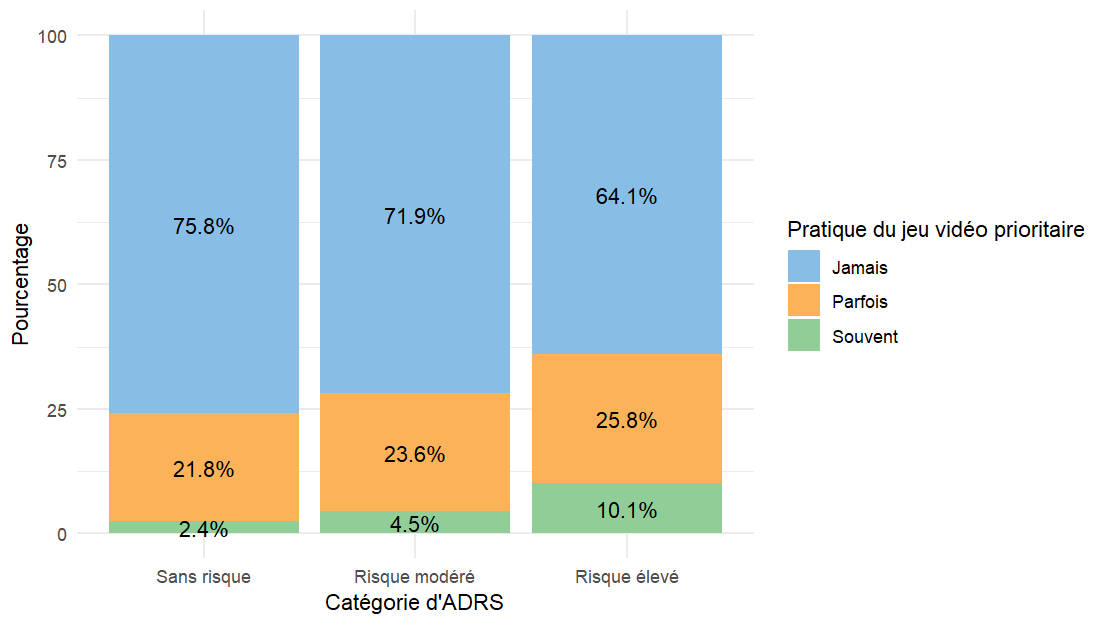
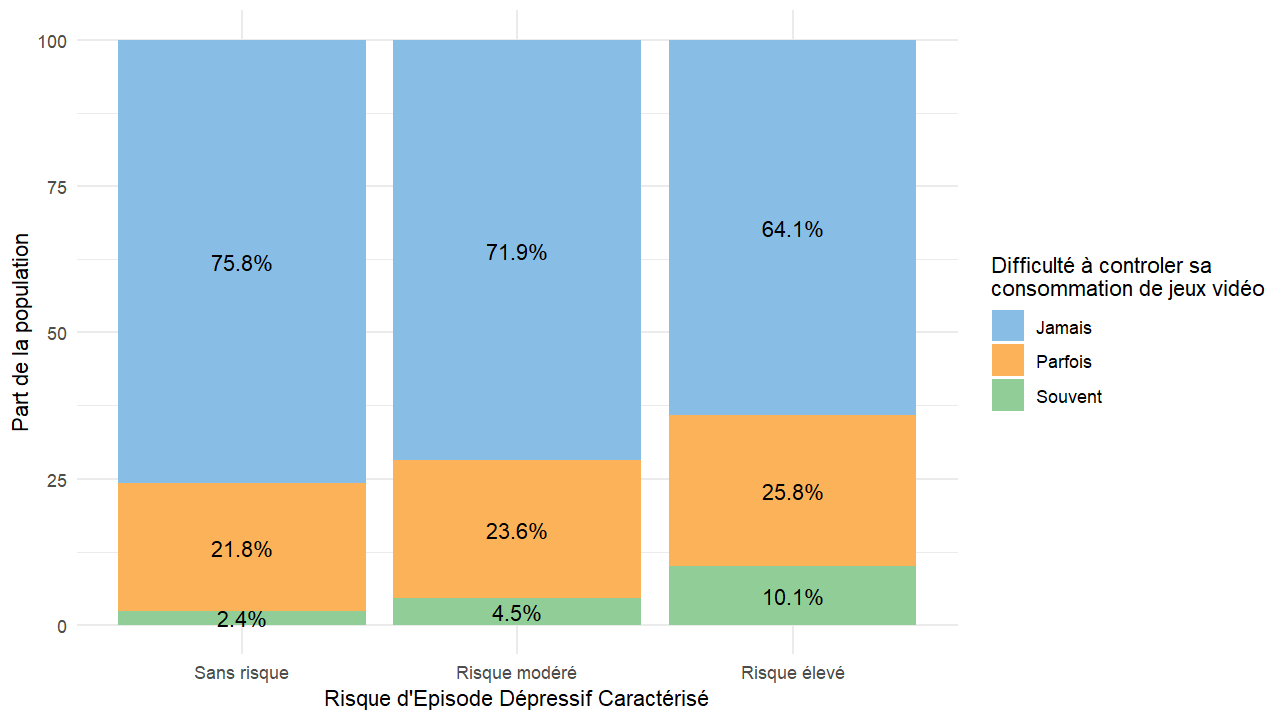
P3 push

diff --git a/Sections/p3.tex b/Sections/p3.tex
@@ -46,47 +46,68 @@ distribution des risques de dépression parmi les participants.
 
 
 
-\subsection{Pratique du jeu vidéo et santé mentale}
+\subsection{Contrôle du jeu vidéo et santé mentale}
 
-Cette sous-section explore la relation entre la pratique du jeu vidéo
-prioritaire et l'état de santé auto-déclaré des participants. La pratique du
-jeu vidéo prioritaire est définie par la fréquence à laquelle les individus
-jouent aux jeux vidéo, allant de "jamais" à "très souvent".
+L'addiction n'est pas seulement caractérisée par la fréquence de consommation,
+mais aussi par le contrôle que l'on a sur sa pratique. Ne plus être capable de
+discerner ses priorités est à la fois signe d'addiction et de mal être.  
+Nous entendrons par pratique du jeu prioritaire l'occurence à laquelle
+les individus ont "accordé une priorité plus importante aux jeux vidéo par
+rapport aux autres interêts de la vie et aux activités quotidiennes" (ESCAPAD, 2022).
+Ces occurences sont catégorisées de "jamais" à "souvent".
+
 
 \begin{figure}[H]
     \centering
     \includegraphics[width=0.8\textwidth]{Images/P3/JV_priorite.png}
-    \caption{Répartition des individus selon la pratique du jeu vidéo prioritaire par catégorie ADRS.}
-    \label{fig:jv_adrs}
+    \caption{Répartition des individus selon la pratique du jeu vidéo prioritaire selon le risque d'EDC}
+    \label{jv_priorite}
+    \textit{16,2\% des individus présentant un risque d'EDC élevé 
+    accordent une priorité plus importante aux jeux vidéo qu'au reste}
 \end{figure}
 
-Le graphique \ref{fig:jv_adrs} montre la répartition des individus selon leur
-score ADRS et leur fréquence de jeu vidéo. On observe que les participants
-ayant un risque d'EDC peu élevé (74.3\%) ou modéré (68.9\%) sont
-majoritairement des joueurs qui ne jouent "jamais" ou "rarement". En revanche,
-ceux ayant un risque d'EDC important (61.3\%) montrent une proportion plus
-élevée de joueurs fréquents ("assez souvent" ou "très souvent").
+
+\vskip10pt
 
 \begin{figure}[H]
     \centering
-    \includegraphics[width=0.8\textwidth]{Images/P3/JV_controle.png}
-    \caption{Répartition des individus selon le controle de la pratique de jeux vidéo par catégorie ADRS.}
-    \label{fig:jv_sante}
+    \includegraphics[width=0.8\textwidth]{Images/P3/JV_controle_EDC.png}
+    \caption{Risque d'EDC selon la fréquence de difficulté à 
+    contrôler sa consommation de jeux vidéo.}
+    \label{jv_controle}
+    \textit{65,9\% des individus ayant parfois des difficulter à contrôler leur consommation
+    de jeux vidéo ne présentent aucun risque d'EDC}
 \end{figure}
 
-Le graphique \ref{fig:jv_sante} illustre la relation entre la fréquence de jeu
-vidéo et l'état de santé auto-déclaré. Les participants déclarant un état de
-santé "très satisfaisant" (75\%) ou "plutôt satisfaisant" (69.6\%) sont
-principalement des joueurs qui ne jouent "jamais" ou "rarement". À l'inverse,
-ceux déclarant un état de santé "peu satisfaisant" (65\%) ou "pas du tout
-satisfaisant" (66.7\%) incluent une proportion plus élevée de joueurs
-fréquents.
+La part d'individus dont la pratique du jeu vidéo a "parfois" pris la priorité 
+sur les autres aspects de la vie est constante peu importe le risque d'Episode Dépressif Caractérisé (Figure \ref{jv_priorite}).
+En revanche plus le risque d'EDC est élevé, plus la part d'individus ayant souvent priorisé le jeu vidéo
+sur le reste est importante. Ces derniers ne représentent que 4,4\% des individus sans risques d'EDC,
+tandis que cette part est presque 4 fois plus importante pour ceux présentant un risque élevé, puisqu'ils sont 16,2\%
+(Figure \ref{jv_priorite}).
 
-Ces résultats suggèrent une corrélation entre une pratique fréquente du jeu
-vidéo et une perception moins positive de l'état de santé. Cependant, il est
-important de noter que cette relation est corrélationnelle et ne prouve pas la
-causalité. D'autres facteurs pourraient influencer à la fois la fréquence de
-jeu et la perception de la santé.
+
+\vskip10pt
+
+Plus il est récurrent pour un individu d'avoir des difficultés à contrôler sa consommation
+de jeux vidéo, plus celui ci est exposé à des risques élevés d'EDC.
+En effet, seulement 45\% de ceux qui ont souvent des difficultés à contrôler leur pratique
+ne présentent aucun risque d'EDC alors qu'ils sont 70\% parmi ceux qui ne perdent jamais le contrôle
+(Figure \ref{jv_controle}).
+A noter que les différences  de risque d'EDC sont plus importantes entre ceux qui
+ont souvent des difficultés de contrôle et ceux qui en ont parfois, qu'entre ceux qui n'en ont 
+jamais et ceux qui en ont parfois. Les colonnes "jamais" et "parfois" sont presque similaires 
+(Figure \ref{jv_controle}),
+quand bien même les non joueurs sont logiquement compris dans la colonne "jamais".
+\\
+On aurait pu penser que de part la présence de cette population, les risques d'EDC
+seraient répartis différement selon si les individus ont parfois ou jamais du mal à contrôler
+leur consommation. Cela laisse penser que le lien entre la consommation contrôlée de jeux vidéo
+et le risque d'EDC est minime. En revanche il y a un lien clair entre la possibilité de 
+gérer raisonnablement sa consommation de jeux vidéo
+et le risque d'Episode Dépressif Caractérisé. 
+
+
 
 
 \subsection{Les jeux d'argent et leurs effets}

diff --git a/Sections/intro.tex b/Sections/intro.tex
@@ -55,4 +55,5 @@ consommation de jeux des jeunes. Les questions sur la consommation ne s'applique
 qu'aux 12 mois précédant la JDC. 
 Le jeu de données ne permets pas de diagnostiquer l'addiction au sens 
 de l'Organisation mondiale de la santé (OMS).
-Nous entendons donc ici par addiction une consommation de jeu très fréquente et répétée.
+Nous entendons donc ici par addiction une consommation de jeu très fréquente et 
+une perte de contrôle.
